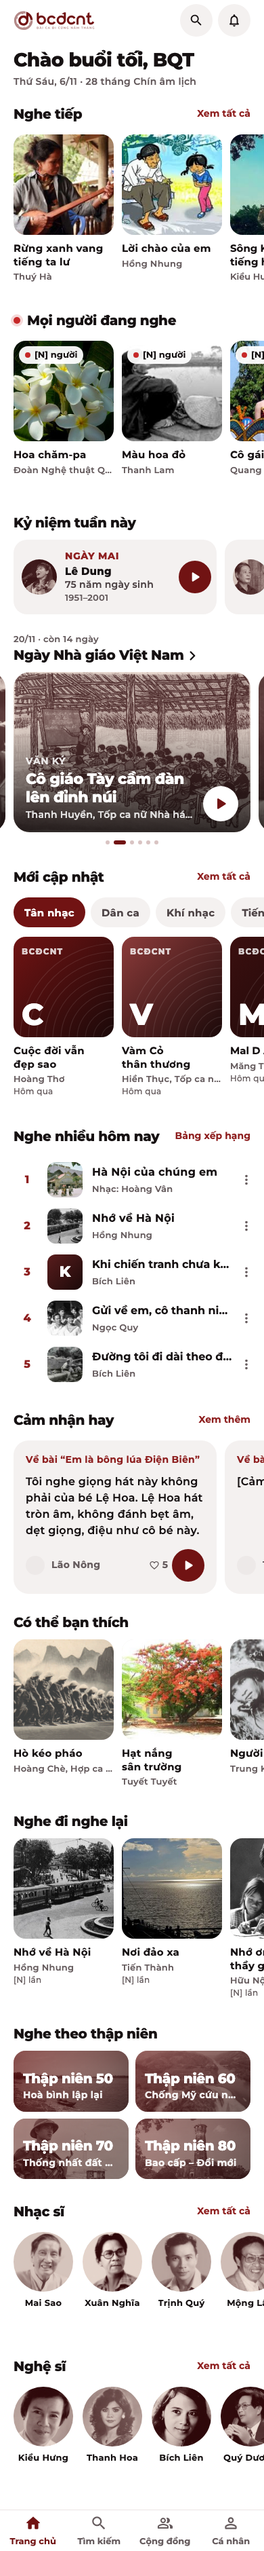
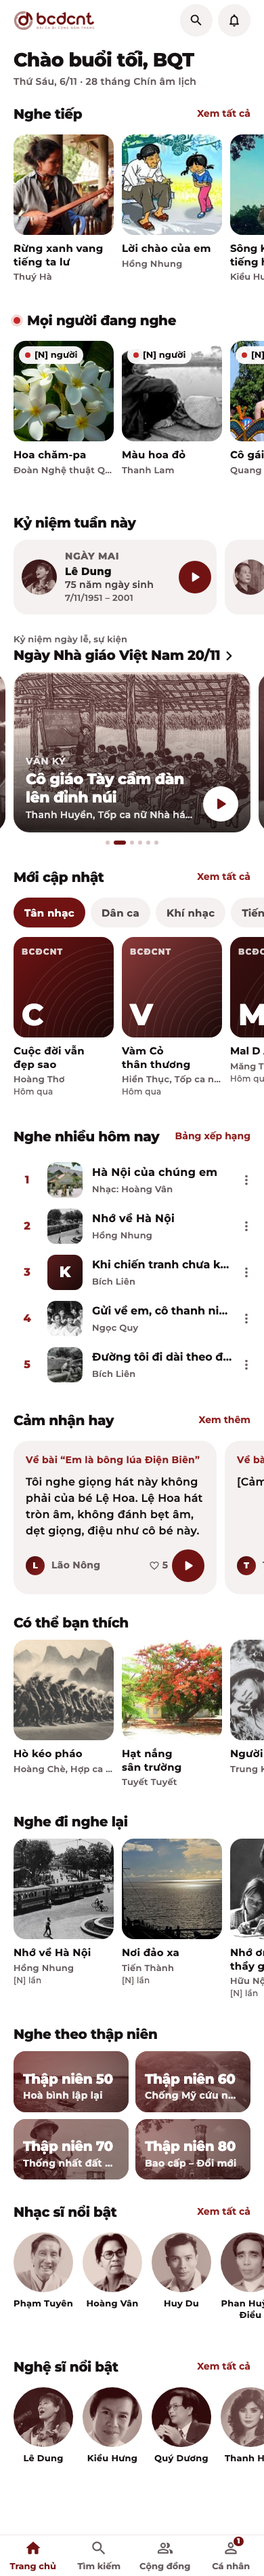
feat(app): Nhạc sĩ/Nghệ sĩ nổi bật trên trang chủ theo người nghe hôm nay
Thay danh sách ngẫu nhiên bằng topComposersToday/topArtistsToday; đổi tiêu đề
box. Canvas Main cập nhật theo.

diff --git a/design/canvas/project/Main.dc.html b/design/canvas/project/Main.dc.html
@@ -11,7 +11,7 @@
 <link href="https://fonts.googleapis.com/css2?family=Montserrat:wght@500;600;700;800&amp;display=swap" rel="stylesheet">
 <style>body{margin:0}a{color:#8E1F1F;text-decoration:none}</style>
 </helmet>
-<div style="width: 390px; height: 3758px; background: #FFFFFF; font-family: Montserrat, sans-serif; line-height: 1.22; color: #161112; display: flex; flex-direction: column; overflow: hidden">
+<div style="width: 390px; height: 3794px; background: #FFFFFF; font-family: Montserrat, sans-serif; line-height: 1.22; color: #161112; display: flex; flex-direction: column; overflow: hidden">
 <!-- BrandTint duotone (lib/widgets/ui.dart): dark #2E080A -> light #F6E8DE by luminance -->
 <svg width="0" height="0" aria-hidden="true" style="position: absolute"><filter id="brandTint" color-interpolation-filters="sRGB"><feColorMatrix type="matrix" values="0.1667 0.5609 0.0566 0 0.1804  0.1868 0.6283 0.0634 0 0.0314  0.1767 0.5946 0.0600 0 0.0392  0 0 0 1 0"></feColorMatrix></filter></svg>
 <!-- Header: logo 120x30 + two 48pt round buttons -->
@@ -52,16 +52,16 @@
 <!-- Nghe theo thập niên (_DecadeGrid) -->
 <div style="height: 67px; box-sizing: border-box; padding: 28px 12px 10px 20px; flex-shrink: 0"><h2 style="margin: 0; font-size: 20px; line-height: 29px; font-weight: 800; letter-spacing: -0.4px; color: #161112; white-space: nowrap; overflow: hidden; text-overflow: ellipsis">Nghe theo thập niên</h2></div><div style="height: 189px; padding: 0 20px; display: grid; grid-template-columns: repeat(2, minmax(0, 1fr)); grid-auto-rows: 89.5px; gap: 10px; flex-shrink: 0"><a href="DanhSach.dc.html" style="height: 89.5px; position: relative; border-radius: 18px; overflow: hidden; background: linear-gradient(135deg, #711313, #1B0909); text-decoration: none"><img src="/_blob/7229852090cb903812549551413e14cb" alt="" style="position: absolute; left: 0; top: 0; width: 100%; height: 100%; object-fit: cover; opacity: 0.5; filter: url(#brandTint)"><span style="position: absolute; left: 0; top: 0; right: 0; bottom: 0; box-sizing: border-box; padding: 14px 14px 15.5px 14px; display: flex; flex-direction: column; justify-content: flex-end"><span style="font-size: 20px; line-height: 24px; font-weight: 800; letter-spacing: -0.4px; color: #FFFFFF; margin-bottom: 4.5px">Thập niên 50</span><span style="font-size: 14px; line-height: 17px; font-weight: 700; color: rgba(255,255,255,0.92); white-space: nowrap; overflow: hidden; text-overflow: ellipsis; letter-spacing: 0.25px">Hoà bình lập lại</span></span></a><a href="DanhSach.dc.html" style="height: 89.5px; position: relative; border-radius: 18px; overflow: hidden; background: linear-gradient(135deg, #8C3B3A, #1B0909); text-decoration: none"><img src="/_blob/347a87561e5096b8ac982c0ba4fe4ee2" alt="" style="position: absolute; left: 0; top: 0; width: 100%; height: 100%; object-fit: cover; opacity: 0.5; filter: url(#brandTint)"><span style="position: absolute; left: 0; top: 0; right: 0; bottom: 0; box-sizing: border-box; padding: 14px 14px 15.5px 14px; display: flex; flex-direction: column; justify-content: flex-end"><span style="font-size: 20px; line-height: 24px; font-weight: 800; letter-spacing: -0.4px; color: #FFFFFF; margin-bottom: 4.5px">Thập niên 60</span><span style="font-size: 14px; line-height: 17px; font-weight: 700; color: rgba(255,255,255,0.92); white-space: nowrap; overflow: hidden; text-overflow: ellipsis; letter-spacing: 0.25px">Chống Mỹ cứu nước</span></span></a><a href="DanhSach.dc.html" style="height: 89.5px; position: relative; border-radius: 18px; overflow: hidden; background: linear-gradient(135deg, #5A1D1D, #1B0909); text-decoration: none"><img src="/_blob/4d43b1ae67d8f63d12f062c5a3594426" alt="" style="position: absolute; left: 0; top: 0; width: 100%; height: 100%; object-fit: cover; opacity: 0.5; filter: url(#brandTint)"><span style="position: absolute; left: 0; top: 0; right: 0; bottom: 0; box-sizing: border-box; padding: 14px 14px 15.5px 14px; display: flex; flex-direction: column; justify-content: flex-end"><span style="font-size: 20px; line-height: 24px; font-weight: 800; letter-spacing: -0.4px; color: #FFFFFF; margin-bottom: 4.5px">Thập niên 70</span><span style="font-size: 14px; line-height: 17px; font-weight: 700; color: rgba(255,255,255,0.92); white-space: nowrap; overflow: hidden; text-overflow: ellipsis; letter-spacing: 0.25px">Thống nhất đất nước</span></span></a><a href="DanhSach.dc.html" style="height: 89.5px; position: relative; border-radius: 18px; overflow: hidden; background: linear-gradient(135deg, #9C5E5C, #1B0909); text-decoration: none"><img src="/_blob/fa0fa31512004cd35b83cd21cca5b844" alt="" style="position: absolute; left: 0; top: 0; width: 100%; height: 100%; object-fit: cover; opacity: 0.5; filter: url(#brandTint)"><span style="position: absolute; left: 0; top: 0; right: 0; bottom: 0; box-sizing: border-box; padding: 14px 14px 15.5px 14px; display: flex; flex-direction: column; justify-content: flex-end"><span style="font-size: 20px; line-height: 24px; font-weight: 800; letter-spacing: -0.4px; color: #FFFFFF; margin-bottom: 4.5px">Thập niên 80</span><span style="font-size: 14px; line-height: 17px; font-weight: 700; color: rgba(255,255,255,0.92); white-space: nowrap; overflow: hidden; text-overflow: ellipsis; letter-spacing: 0.25px">Bao cấp – Đổi mới</span></span></a></div>
 
-<!-- Nhạc sĩ, Nghệ sĩ: hai dải riêng (bỏ hai nút chuyển tab) -->
-<div style="height: 78px; box-sizing: border-box; padding: 28px 12px 10px 20px; display: flex; align-items: center; flex-shrink: 0"><h2 style="margin: 0; flex: 1; min-width: 0; font-size: 20px; line-height: 24px; font-weight: 800; letter-spacing: -0.4px; color: #161112; white-space: nowrap; overflow: hidden; text-overflow: ellipsis">Nhạc sĩ</h2><a href="NgheSi.dc.html" style="height: 40px; padding: 0 8px; display: flex; align-items: center; font-size: 14px; font-weight: 700; color: #8E1F1F; text-decoration: none">Xem tất cả</a></div><div style="height: 150px; display: flex; gap: 14px; padding: 0 20px; overflow: hidden; flex-shrink: 0"><a href="NgheSi.dc.html" style="width: 88px; flex-shrink: 0; display: flex; flex-direction: column; align-items: center; text-decoration: none"><img src="/_blob/434c9c93b2d72d576358a6e9f68c1742" alt="" style="width: 88px; height: 88px; border-radius: 44px; object-fit: cover; filter: url(#brandTint)"><span style="margin-top: 8px; font-size: 13px; line-height: 17px; font-weight: 700; color: #161112; text-align: center; display: -webkit-box; -webkit-line-clamp: 2; -webkit-box-orient: vertical; overflow: hidden; letter-spacing: 0.25px">Mai Sao</span></a><a href="NgheSi.dc.html" style="width: 88px; flex-shrink: 0; display: flex; flex-direction: column; align-items: center; text-decoration: none"><img src="/_blob/0eb384974d8b0042f0653786219913ca" alt="" style="width: 88px; height: 88px; border-radius: 44px; object-fit: cover; filter: url(#brandTint)"><span style="margin-top: 8px; font-size: 13px; line-height: 17px; font-weight: 700; color: #161112; text-align: center; display: -webkit-box; -webkit-line-clamp: 2; -webkit-box-orient: vertical; overflow: hidden; letter-spacing: 0.25px">Xuân Nghĩa</span></a><a href="NgheSi.dc.html" style="width: 88px; flex-shrink: 0; display: flex; flex-direction: column; align-items: center; text-decoration: none"><img src="/_blob/534ad0368f0f4a4accba6613b1240f0b" alt="" style="width: 88px; height: 88px; border-radius: 44px; object-fit: cover; filter: url(#brandTint)"><span style="margin-top: 8px; font-size: 13px; line-height: 17px; font-weight: 700; color: #161112; text-align: center; display: -webkit-box; -webkit-line-clamp: 2; -webkit-box-orient: vertical; overflow: hidden; letter-spacing: 0.25px">Trịnh Quý</span></a><a href="NgheSi.dc.html" style="width: 88px; flex-shrink: 0; display: flex; flex-direction: column; align-items: center; text-decoration: none"><img src="/_blob/6e99c332b4579709f3585221b386e7ed" alt="" style="width: 88px; height: 88px; border-radius: 44px; object-fit: cover; filter: url(#brandTint)"><span style="margin-top: 8px; font-size: 13px; line-height: 17px; font-weight: 700; color: #161112; text-align: center; display: -webkit-box; -webkit-line-clamp: 2; -webkit-box-orient: vertical; overflow: hidden; letter-spacing: 0.25px">Mộng Lân</span></a></div>
-<div style="height: 78px; box-sizing: border-box; padding: 28px 12px 10px 20px; display: flex; align-items: center; flex-shrink: 0"><h2 style="margin: 0; flex: 1; min-width: 0; font-size: 20px; line-height: 24px; font-weight: 800; letter-spacing: -0.4px; color: #161112; white-space: nowrap; overflow: hidden; text-overflow: ellipsis">Nghệ sĩ</h2><a href="NgheSi.dc.html" style="height: 40px; padding: 0 8px; display: flex; align-items: center; font-size: 14px; font-weight: 700; color: #8E1F1F; text-decoration: none">Xem tất cả</a></div><div style="height: 150px; display: flex; gap: 14px; padding: 0 20px; overflow: hidden; flex-shrink: 0"><a href="NgheSi.dc.html" style="width: 88px; flex-shrink: 0; display: flex; flex-direction: column; align-items: center; text-decoration: none"><img src="/_blob/1a3b15cf553f0df43c3eaea75a0044a2" alt="" style="width: 88px; height: 88px; border-radius: 44px; object-fit: cover; filter: url(#brandTint)"><span style="margin-top: 8px; font-size: 13px; line-height: 17px; font-weight: 700; color: #161112; text-align: center; display: -webkit-box; -webkit-line-clamp: 2; -webkit-box-orient: vertical; overflow: hidden; letter-spacing: 0.25px">Kiều Hưng</span></a><a href="NgheSi.dc.html" style="width: 88px; flex-shrink: 0; display: flex; flex-direction: column; align-items: center; text-decoration: none"><img src="/_blob/c80a7244dd9689f587d9cbffeb2fe19a" alt="" style="width: 88px; height: 88px; border-radius: 44px; object-fit: cover; filter: url(#brandTint)"><span style="margin-top: 8px; font-size: 13px; line-height: 17px; font-weight: 700; color: #161112; text-align: center; display: -webkit-box; -webkit-line-clamp: 2; -webkit-box-orient: vertical; overflow: hidden; letter-spacing: 0.25px">Thanh Hoa</span></a><a href="NgheSi.dc.html" style="width: 88px; flex-shrink: 0; display: flex; flex-direction: column; align-items: center; text-decoration: none"><img src="/_blob/11d14197cdd39adf08d1be27155c5034" alt="" style="width: 88px; height: 88px; border-radius: 44px; object-fit: cover; filter: url(#brandTint)"><span style="margin-top: 8px; font-size: 13px; line-height: 17px; font-weight: 700; color: #161112; text-align: center; display: -webkit-box; -webkit-line-clamp: 2; -webkit-box-orient: vertical; overflow: hidden; letter-spacing: 0.25px">Bích Liên</span></a><a href="NgheSi.dc.html" style="width: 88px; flex-shrink: 0; display: flex; flex-direction: column; align-items: center; text-decoration: none"><img src="/_blob/e1feff8c40a5cc3dec36d10ec4048bee" alt="" style="width: 88px; height: 88px; border-radius: 44px; object-fit: cover; filter: url(#brandTint)"><span style="margin-top: 8px; font-size: 13px; line-height: 17px; font-weight: 700; color: #161112; text-align: center; display: -webkit-box; -webkit-line-clamp: 2; -webkit-box-orient: vertical; overflow: hidden; letter-spacing: 0.25px">Quý Dương</span></a></div>
+<!-- Nhạc sĩ nổi bật, Nghệ sĩ nổi bật: người được nhiều NGƯỜI nghe nhất hôm nay (đếm tài khoản/IP khác nhau, không đếm lượt — tránh một người bật lặp; số không hiện ra); bỏ tốp ca, hợp ca, dàn nhạc…; bỏ người không có ảnh; không đủ người thì hiện ít hơn, không có ai thì ẩn cả box -->
+<div style="height: 78px; box-sizing: border-box; padding: 28px 12px 10px 20px; display: flex; align-items: center; flex-shrink: 0"><h2 style="margin: 0; flex: 1; min-width: 0; font-size: 20px; line-height: 24px; font-weight: 800; letter-spacing: -0.4px; color: #161112; white-space: nowrap; overflow: hidden; text-overflow: ellipsis">Nhạc sĩ nổi bật</h2><a href="NgheSi.dc.html" style="height: 40px; padding: 0 8px; display: flex; align-items: center; font-size: 14px; font-weight: 700; color: #8E1F1F; text-decoration: none">Xem tất cả</a></div><div style="height: 150px; display: flex; gap: 14px; padding: 0 20px; overflow: hidden; flex-shrink: 0"><a href="NgheSi.dc.html" style="width: 88px; flex-shrink: 0; display: flex; flex-direction: column; align-items: center; text-decoration: none"><img src="/_blob/d0be117e25da69210e9340d3bc1ad3e9" alt="" style="width: 88px; height: 88px; border-radius: 44px; object-fit: cover; filter: url(#brandTint)"><span style="margin-top: 8px; font-size: 13px; line-height: 17px; font-weight: 700; color: #161112; text-align: center; display: -webkit-box; -webkit-line-clamp: 2; -webkit-box-orient: vertical; overflow: hidden; letter-spacing: 0.25px">Phạm Tuyên</span></a><a href="NgheSi.dc.html" style="width: 88px; flex-shrink: 0; display: flex; flex-direction: column; align-items: center; text-decoration: none"><img src="/_blob/ce308386440f34ac7408727e1a99275c" alt="" style="width: 88px; height: 88px; border-radius: 44px; object-fit: cover; filter: url(#brandTint)"><span style="margin-top: 8px; font-size: 13px; line-height: 17px; font-weight: 700; color: #161112; text-align: center; display: -webkit-box; -webkit-line-clamp: 2; -webkit-box-orient: vertical; overflow: hidden; letter-spacing: 0.25px">Hoàng Vân</span></a><a href="NgheSi.dc.html" style="width: 88px; flex-shrink: 0; display: flex; flex-direction: column; align-items: center; text-decoration: none"><img src="/_blob/bdfff15a770709526c2104c10f099cbf" alt="" style="width: 88px; height: 88px; border-radius: 44px; object-fit: cover; filter: url(#brandTint)"><span style="margin-top: 8px; font-size: 13px; line-height: 17px; font-weight: 700; color: #161112; text-align: center; display: -webkit-box; -webkit-line-clamp: 2; -webkit-box-orient: vertical; overflow: hidden; letter-spacing: 0.25px">Huy Du</span></a><a href="NgheSi.dc.html" style="width: 88px; flex-shrink: 0; display: flex; flex-direction: column; align-items: center; text-decoration: none"><img src="/_blob/967ef0c8eba0b6408606ed1bf30b8a3c" alt="" style="width: 88px; height: 88px; border-radius: 44px; object-fit: cover; filter: url(#brandTint)"><span style="margin-top: 8px; font-size: 13px; line-height: 17px; font-weight: 700; color: #161112; text-align: center; display: -webkit-box; -webkit-line-clamp: 2; -webkit-box-orient: vertical; overflow: hidden; letter-spacing: 0.25px">Phan Huỳnh Điểu</span></a></div>
+<div style="height: 78px; box-sizing: border-box; padding: 28px 12px 10px 20px; display: flex; align-items: center; flex-shrink: 0"><h2 style="margin: 0; flex: 1; min-width: 0; font-size: 20px; line-height: 24px; font-weight: 800; letter-spacing: -0.4px; color: #161112; white-space: nowrap; overflow: hidden; text-overflow: ellipsis">Nghệ sĩ nổi bật</h2><a href="NgheSi.dc.html" style="height: 40px; padding: 0 8px; display: flex; align-items: center; font-size: 14px; font-weight: 700; color: #8E1F1F; text-decoration: none">Xem tất cả</a></div><div style="height: 150px; display: flex; gap: 14px; padding: 0 20px; overflow: hidden; flex-shrink: 0"><a href="NgheSi.dc.html" style="width: 88px; flex-shrink: 0; display: flex; flex-direction: column; align-items: center; text-decoration: none"><img src="/_blob/bdcaa2726179d81940c9f392878e853d" alt="" style="width: 88px; height: 88px; border-radius: 44px; object-fit: cover; filter: url(#brandTint)"><span style="margin-top: 8px; font-size: 13px; line-height: 17px; font-weight: 700; color: #161112; text-align: center; display: -webkit-box; -webkit-line-clamp: 2; -webkit-box-orient: vertical; overflow: hidden; letter-spacing: 0.25px">Lê Dung</span></a><a href="NgheSi.dc.html" style="width: 88px; flex-shrink: 0; display: flex; flex-direction: column; align-items: center; text-decoration: none"><img src="/_blob/53dfe697f429b1407d32bc3a4bd6e54e" alt="" style="width: 88px; height: 88px; border-radius: 44px; object-fit: cover; filter: url(#brandTint)"><span style="margin-top: 8px; font-size: 13px; line-height: 17px; font-weight: 700; color: #161112; text-align: center; display: -webkit-box; -webkit-line-clamp: 2; -webkit-box-orient: vertical; overflow: hidden; letter-spacing: 0.25px">Kiều Hưng</span></a><a href="NgheSi.dc.html" style="width: 88px; flex-shrink: 0; display: flex; flex-direction: column; align-items: center; text-decoration: none"><img src="/_blob/cda535618eeef0ed7e4e103385b67603" alt="" style="width: 88px; height: 88px; border-radius: 44px; object-fit: cover; filter: url(#brandTint)"><span style="margin-top: 8px; font-size: 13px; line-height: 17px; font-weight: 700; color: #161112; text-align: center; display: -webkit-box; -webkit-line-clamp: 2; -webkit-box-orient: vertical; overflow: hidden; letter-spacing: 0.25px">Quý Dương</span></a><a href="NgheSi.dc.html" style="width: 88px; flex-shrink: 0; display: flex; flex-direction: column; align-items: center; text-decoration: none"><img src="/_blob/670687ae13ef94f00e8e104098cef387" alt="" style="width: 88px; height: 88px; border-radius: 44px; object-fit: cover; filter: url(#brandTint)"><span style="margin-top: 8px; font-size: 13px; line-height: 17px; font-weight: 700; color: #161112; text-align: center; display: -webkit-box; -webkit-line-clamp: 2; -webkit-box-orient: vertical; overflow: hidden; letter-spacing: 0.25px">Thanh Hoa</span></a></div>
 <div style="height: 31px; flex-shrink: 0"></div>
 
 <div style="flex: 1"></div>
 <dc-import name="TabBar" active="home" hint-size="390px,61px"></dc-import>
 </div>
 </x-dc>
-<script type="text/x-dc" data-dc-script data-props='{"$preview":{"width":390,"height":3758}}'>
+<script type="text/x-dc" data-dc-script data-props='{"$preview":{"width":390,"height":3794}}'>
 class Component extends DCLogic {
 renderVals() {
 return {};

diff --git a/lib/screens/home_mobile_screen.dart b/lib/screens/home_mobile_screen.dart
@@ -19,7 +19,7 @@ export '../widgets/song_row.dart' show playOrOpen;
 // diện"). Order: greeting + lunar date → Nghe tiếp → Mọi người đang nghe →
 // Kỷ niệm tuần này → Gợi ý (the coming occasion's playlist, else yesterday's
 // most played) → Mới cập nhật → Nghe nhiều hôm nay → Cảm nhận hay → Có thể
-// bạn thích → Nghe đi nghe lại → Thập niên → Nhạc sĩ → Nghệ sĩ. Most of it changes daily or faster. Thành viên tiêu
+// bạn thích → Nghe đi nghe lại → Thập niên → Nhạc sĩ nổi bật → Nghệ sĩ nổi bật. Most of it changes daily or faster. Thành viên tiêu
 // biểu lives in Cộng đồng, Bài yêu thích in Cá nhân. Desktop keeps HomeScreen.
 
 const _songFields = 'id slug title subtitle views created_at play_type file_type thumbnail { url } file { audio_url video_url duration } artists(first: 3) { data { id slug title } } sheet { year composers(first: 2) { data { id slug title } } }';
@@ -38,25 +38,13 @@ const _liveQuery = '''query HomeLive {
   topSongsToday(limit: 5) { $_songFields }
 }''';
 
-const _peopleFields = 'id slug title avatar { url } total_listens';
-const _peopleQuery = '''query(\$composerWhere: WhereConditions, \$artistWhere: WhereConditions) {
-  composers(first: 16, random: true, where: \$composerWhere) { data { $_peopleFields } }
-  artists(first: 16, random: true, where: \$artistWhere) { data { $_peopleFields } }
+const _peopleFields = 'id slug title avatar { url }';
+/// "Nhạc sĩ nổi bật" / "Nghệ sĩ nổi bật": the people the most listeners
+/// played today (no groups, all with a photo), recounted every 5 minutes.
+const _peopleQuery = '''query HomePeople {
+  topComposersToday(limit: 12) { $_peopleFields }
+  topArtistsToday(limit: 12) { $_peopleFields }
 }''';
-
-const _peopleVars = {
-  'composerWhere': {'AND': [
-    {'column': 'type', 'value': 'domestic'},
-    {'column': 'total_listens', 'operator': 'GT', 'value': '10000'},
-    {'column': 'image_id', 'operator': 'GT', 'value': '0'},
-  ]},
-  'artistWhere': {'AND': [
-    {'column': 'type', 'value': 'domestic'},
-    {'column': 'is_group', 'value': '0'},
-    {'column': 'total_listens', 'operator': 'GT', 'value': '10000'},
-    {'column': 'image_id', 'operator': 'GT', 'value': '0'},
-  ]},
-};
 
 class _Cat {
   final String name, slug, query;
@@ -220,7 +208,7 @@ class _HomeMobileScreenState extends State<HomeMobileScreen> {
     _fetchOccasion(_nextOccasion(DateTime.now()));
     final r = await Future.wait([
       safe(ApiClient.query(_mainQuery)),
-      safe(ApiClient.query(_peopleQuery, _peopleVars)),
+      safe(ApiClient.query(_peopleQuery)),
       safe(ApiClient.query(_liveQuery)),
     ]);
     if (!mounted) return;
@@ -254,8 +242,8 @@ class _HomeMobileScreenState extends State<HomeMobileScreen> {
         // image_id > 0 doesn't guarantee the image row exists (~10% don't):
         // keep only people with a real photo so the rail stays all faces.
         bool hasPhoto(Map p) => (p['avatar']?['url']?.toString() ?? '').isNotEmpty;
-        _composers = _maps(people['composers']?['data']).where(hasPhoto).take(12).toList();
-        _artists = _maps(people['artists']?['data']).where(hasPhoto).take(12).toList();
+        _composers = _maps(people['topComposersToday']).where(hasPhoto).toList();
+        _artists = _maps(people['topArtistsToday']).where(hasPhoto).toList();
       }
       if (live != null) _applyLive(live);
       _loading = false;
@@ -659,11 +647,11 @@ class _HomeMobileScreenState extends State<HomeMobileScreen> {
             // Composers and singers in their own rails: behind a chip, the
             // second one was never opened.
             if (_loading || _composers.isNotEmpty) ...[
-              SectionTitle('Nhạc sĩ', onAction: () => context.push('/nhac-si')),
+              SectionTitle('Nhạc sĩ nổi bật', onAction: () => context.push('/nhac-si')),
               _PeopleRail(people: _composers, loading: _loading, route: '/nhac-si/'),
             ],
             if (_loading || _artists.isNotEmpty) ...[
-              SectionTitle('Nghệ sĩ', onAction: () => context.push('/nghe-si')),
+              SectionTitle('Nghệ sĩ nổi bật', onAction: () => context.push('/nghe-si')),
               _PeopleRail(people: _artists, loading: _loading, route: '/nghe-si/'),
             ],
           ],
